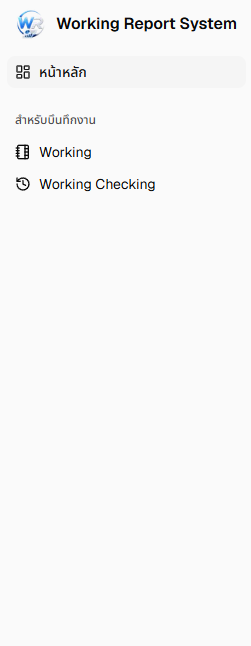
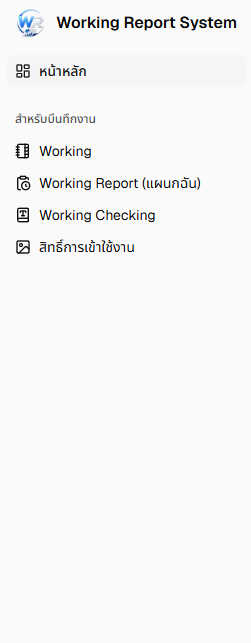
18rd commit

diff --git a/app/(main)/permission/page.tsx b/app/(main)/permission/page.tsx
@@ -39,7 +39,7 @@ const roleGuides: RoleGuide[] = [
             "ผู้ดูแลระดับรอง เห็นเมนูบันทึกงานและรายงานเหมือน Admin แต่ไม่มีเมนูจัดการข้อมูลหลัก (การจัดการ)",
         badgeVariant: "secondary",
         icon: UserCog,
-        image: { src: "/permission/subadminrm1.png", width: 253, height: 645, alt: "เมนู Sidebar สำหรับ Subadmin" },
+        image: { src: "/permission/subadminrm.png", width: 253, height: 645, alt: "เมนู Sidebar สำหรับ Subadmin" },
     },
     {
         role: "guest",
